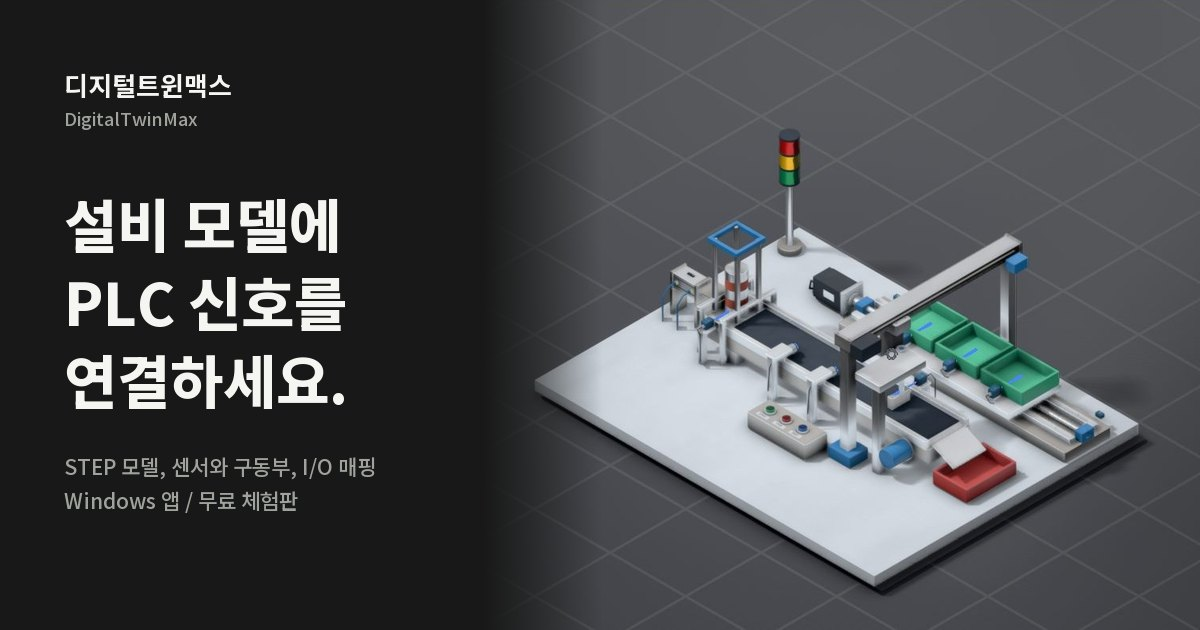
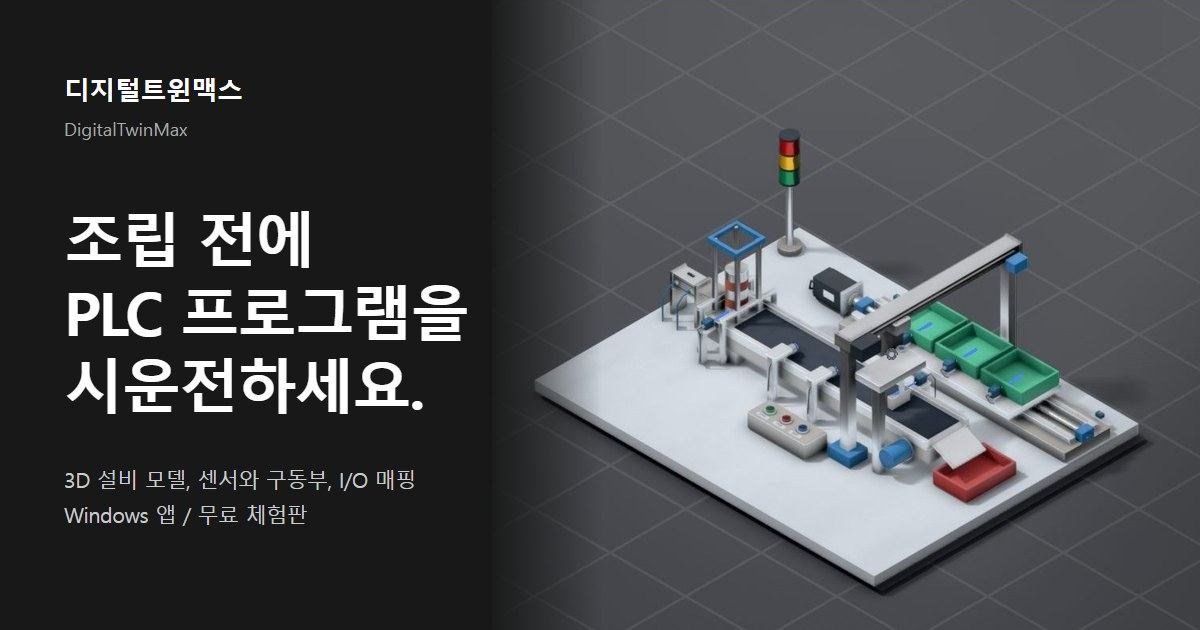
docs: 신호 도식을 디지털트윈맥스 명칭으로 바꾸고 미리보기 이미지 갱신
- 도식 제목과 오른쪽 상자를 디지털트윈맥스와 3D 가상 설비 설명으로 변경, 태블릿과 모바일 배치 보정
- 체험판 장비 표현을 내장된 MINI MPS 교육 장비로 통일
- 미리보기 이미지를 조립 전 시운전 문구로 다시 만들고 공유 캐시 갱신용 버전 추가

Claude-Session: https://claude.ai/code/session_019MgkQ74f3fPZoHvGe7TwvW

Changed region(s): [[0.0308, 0.3016, 0.4008, 0.6635], [0.0308, 0.7238, 0.3392, 0.8444], [0.0308, 0.1206, 0.2158, 0.2413]]

diff --git a/docs/index.html b/docs/index.html
@@ -11,18 +11,18 @@
   <meta property="og:description" content="장비를 조립하기 전에, 3D 설비 모델로 PLC 제어 프로그램을 시운전합니다. 실제 앱 화면과 MINI MPS 동작 영상, 무료 체험판 안내를 확인하세요.">
   <meta property="og:url" content="https://plcmanjp.github.io/digitaltwinmax/">
   <meta property="og:site_name" content="디지털트윈맥스">
-  <meta property="og:image" content="https://plcmanjp.github.io/digitaltwinmax/assets/og-image.jpg">
+  <meta property="og:image" content="https://plcmanjp.github.io/digitaltwinmax/assets/og-image.jpg?v=2">
   <meta property="og:image:type" content="image/jpeg">
   <meta property="og:image:width" content="1200">
   <meta property="og:image:height" content="630">
-  <meta property="og:image:alt" content="디지털트윈맥스 소개 이미지. 설비 모델에 PLC 신호를 연결하세요라는 문구와 MINI MPS 샘플 설비의 3D 화면.">
+  <meta property="og:image:alt" content="디지털트윈맥스 소개 이미지. 조립 전에 PLC 프로그램을 시운전하세요라는 문구와 MINI MPS 교육 장비의 3D 화면.">
   <meta name="twitter:card" content="summary_large_image">
   <meta name="twitter:title" content="디지털트윈맥스: 설비 모델에 PLC 신호를 연결하세요">
   <meta name="twitter:description" content="장비를 조립하기 전에, 3D 설비 모델로 PLC 제어 프로그램을 시운전합니다. 무료 체험판에서 직접 짠 래더로 MINI MPS를 시운전해 보세요.">
-  <meta name="twitter:image" content="https://plcmanjp.github.io/digitaltwinmax/assets/og-image.jpg">
+  <meta name="twitter:image" content="https://plcmanjp.github.io/digitaltwinmax/assets/og-image.jpg?v=2">
   <link rel="canonical" href="https://plcmanjp.github.io/digitaltwinmax/">
   <link rel="icon" type="image/svg+xml" href="assets/mark.svg?v=brand-3">
-  <link rel="stylesheet" href="styles.css?v=concise-3">
+  <link rel="stylesheet" href="styles.css?v=concise-4">
   <script src="media-config.js?v=promo-7" defer></script>
   <script src="media.js?v=product-1" defer></script>
   <script src="viewer.js?v=promo-4" defer></script>
@@ -49,7 +49,7 @@
           <a class="primary-link" href="#capabilities">기능 보기</a>
           <a class="text-link" href="#trial">체험판 받기</a>
         </div>
-        <p class="hero-preparation">Windows 앱입니다. 제품판은 STEP 파일을 바로 불러오고, 무료 체험판은 미리 설정된 MINI MPS 장비로 시작합니다.</p>
+        <p class="hero-preparation">Windows 앱입니다. 제품판은 STEP 파일을 바로 불러오고, 무료 체험판은 내장된 MINI MPS 교육 장비로 시작합니다.</p>
       </div>
       <figure class="hero-figure">
         <button type="button" class="zoom-frame" aria-haspopup="dialog">
@@ -74,14 +74,14 @@
           <div><dt>저장과 다시 열기</dt><dd>설정한 프로젝트를 저장해 다음 검토에 다시 씁니다.</dd></div>
         </dl>
         <div class="signal-flow" role="group" aria-labelledby="signal-flow-title">
-          <h3 id="signal-flow-title">PLC와 가상 설비가 주고받는 것</h3>
+          <h3 id="signal-flow-title">PLC와 디지털트윈맥스가 주고받는 것</h3>
           <div class="signal-loop">
             <div class="signal-node"><strong>PLC</strong><small>래더 등 제어 프로그램</small></div>
             <div class="signal-links">
-              <p class="signal-link is-out"><span class="signal-text"><strong>출력</strong> 밸브와 구동 명령<span class="sr-only">, PLC에서 가상 설비로</span></span><span class="signal-line" aria-hidden="true"></span></p>
-              <p class="signal-link is-in"><span class="signal-line" aria-hidden="true"></span><span class="signal-text"><strong>입력</strong> 센서의 감지 상태<span class="sr-only">, 가상 설비에서 PLC로</span></span></p>
+              <p class="signal-link is-out"><span class="signal-text"><strong>출력</strong> 밸브와 구동 명령<span class="sr-only">, PLC에서 디지털트윈맥스로</span></span><span class="signal-line" aria-hidden="true"></span></p>
+              <p class="signal-link is-in"><span class="signal-line" aria-hidden="true"></span><span class="signal-text"><strong>입력</strong> 센서의 감지 상태<span class="sr-only">, 디지털트윈맥스에서 PLC로</span></span></p>
             </div>
-            <div class="signal-node"><strong>가상 설비</strong><small>구동부 동작과 센서 감지</small></div>
+            <div class="signal-node"><strong>디지털트윈맥스</strong><small>3D 가상 설비, 구동부 동작과 센서 감지</small></div>
           </div>
           <p class="signal-note">구동부와 센서의 포트를 PLC 주소에 매핑하면 신호가 오갑니다. PLC 프로그램은 기존 개발 환경에서 준비합니다.</p>
         </div>
@@ -175,7 +175,7 @@
     <section class="faq wrap" id="faq" aria-labelledby="faq-title">
       <div class="section-heading"><div><p class="eyebrow">자주 묻는 질문</p><h2 id="faq-title">사용 전에 알아둘 것</h2></div></div>
       <div class="faq-list">
-        <details><summary>어떤 설비 모델을 불러올 수 있나요?</summary><p>제품판은 STEP 파일(.step, .stp)을 바로 불러옵니다. 체험판은 미리 설정된 MINI MPS 장비를 제공합니다.</p></details>
+        <details><summary>어떤 설비 모델을 불러올 수 있나요?</summary><p>제품판은 STEP 파일(.step, .stp)을 바로 불러옵니다. 체험판은 내장된 MINI MPS 교육 장비를 제공합니다.</p></details>
         <details><summary>“코드리스”는 어느 작업을 뜻하나요?</summary><p>센서와 구동부의 동작을 스크립트 없이 컴포넌트와 속성 값으로 설정한다는 뜻입니다. 래더 등 PLC 제어 프로그램은 별도로 준비합니다.</p></details>
         <details><summary>PLC가 없어도 먼저 확인할 수 있나요?</summary><p>네. 가상 실행과 신호 시뮬레이터로 설비의 움직임을 먼저 볼 수 있습니다.</p></details>
         <details><summary>PLC로 시험하려면 무엇이 필요한가요?</summary><p>PLC 제어 프로그램, 통신 환경, 센서와 구동부의 I/O 매핑이 필요합니다. 체험판은 I/O 매핑이 미리 설정되어 있어 래더와 통신 설정만 준비하면 됩니다.</p></details>

diff --git a/docs/styles.css b/docs/styles.css
@@ -1664,28 +1664,71 @@ button {
   left:-1px;
   border-right:11px solid #42674c;
 }
+@media(max-width:1100px) {
+  .signal-loop {
+    grid-template-columns:1fr 1.1fr 1fr;
+  }
+  .signal-node {
+    padding:18px;
+  }
+  .signal-node strong {
+    font-size:20px;
+  }
+  .signal-links {
+    padding:0 16px;
+  }
+}
 @media(max-width:700px) {
   .signal-loop {
-    grid-template-columns:.9fr 1.5fr .9fr;
+    grid-template-columns:1fr;
+  }
+  .signal-node {
+    padding:14px 16px;
+    text-align:center;
+  }
+  .signal-node strong {
+    font-size:19px;
+  }
+  .signal-node small {
+    font-size:12px;
+  }
+  .signal-links {
+    flex-direction:row;
+    justify-content:center;
+    gap:28px;
+    padding:14px 0;
+  }
+  .signal-link {
+    grid-template-columns:auto auto;
+    align-items:center;
+    gap:10px;
+  }
+  .signal-text {
+    text-align:left;
+    font-size:12px;
   }
   .signal-text strong {
     display:block;
   }
-  .signal-node {
-    padding:14px 10px;
-    text-align:center;
+  .signal-line {
+    width:2px;
+    height:46px;
   }
-  .signal-node strong {
-    font-size:16px;
+  .is-out .signal-line::after,.is-in .signal-line::after {
+    left:-5px;
+    right:auto;
+    border-left:6px solid transparent;
+    border-right:6px solid transparent;
   }
-  .signal-node small {
-    font-size:11px;
+  .is-out .signal-line::after {
+    top:auto;
+    bottom:-1px;
+    border-top:11px solid #42674c;
+    border-bottom:0;
   }
-  .signal-links {
-    padding:0 8px;
-    gap:18px;
-  }
-  .signal-text {
-    font-size:12px;
+  .is-in .signal-line::after {
+    top:-1px;
+    border-bottom:11px solid #42674c;
+    border-top:0;
   }
 }
